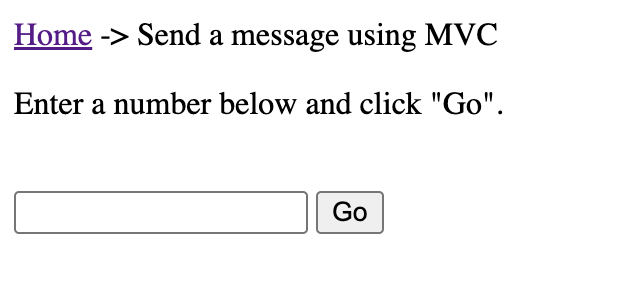
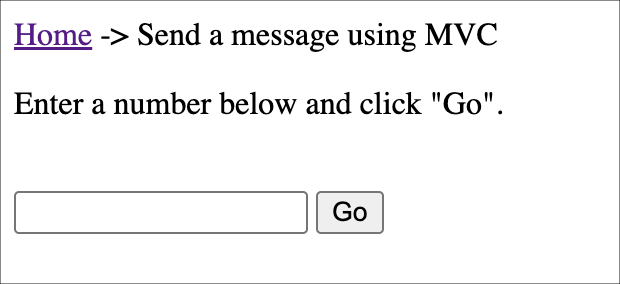
Fixed form screenshot and used consistent language: technologies -> frameworks

Changed region(s): [[0.0, 0.9859, 1.0, 1.0], [0.0, 0.0, 1.0, 0.0282]]

diff --git a/samples/web/asp-web-application/sample.md b/samples/web/asp-web-application/sample.md
@@ -27,7 +27,8 @@ There are three projects in the solution:
 - `WebApp` - An ASP.NET web application that sends messages to the `Server` endpoint using the frameworks listed above
 - `Shared` - A library which contains the message definition, shared by both the `Server` and `WebApp` projects
 
-Both the `Server` and `WebApp` projects must be running.  When the `WebApp` is run, a browser window will open to display links for sending messages using different technologies.
+Both the `Server` and `WebApp` projects must be running.  When the `WebApp` is run, a browser window will open to display links for sending messages using different 
+ASP.NET frameworks.
 
 Excluding the Web API link, which sends a message from a `GET` request, the other links will display a version of the following form for sending the message using the specified framework:
 
